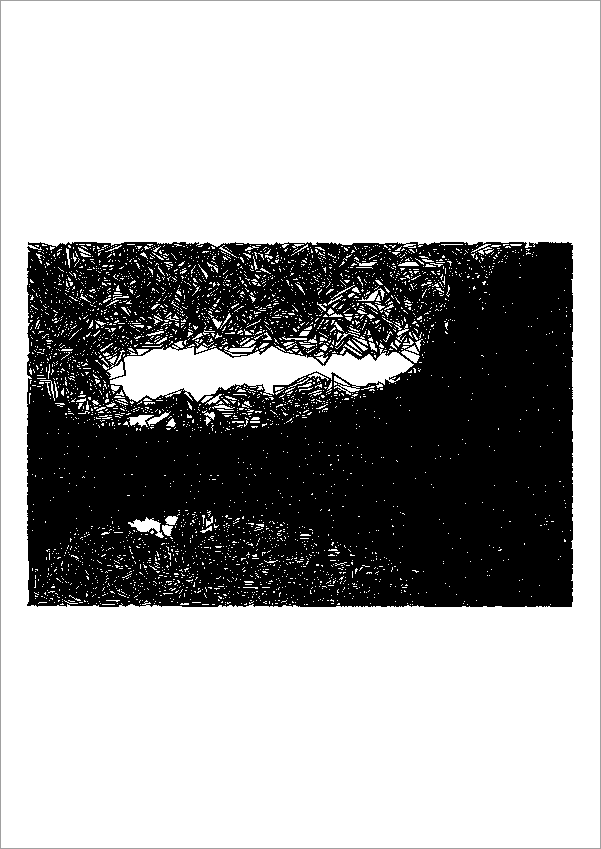
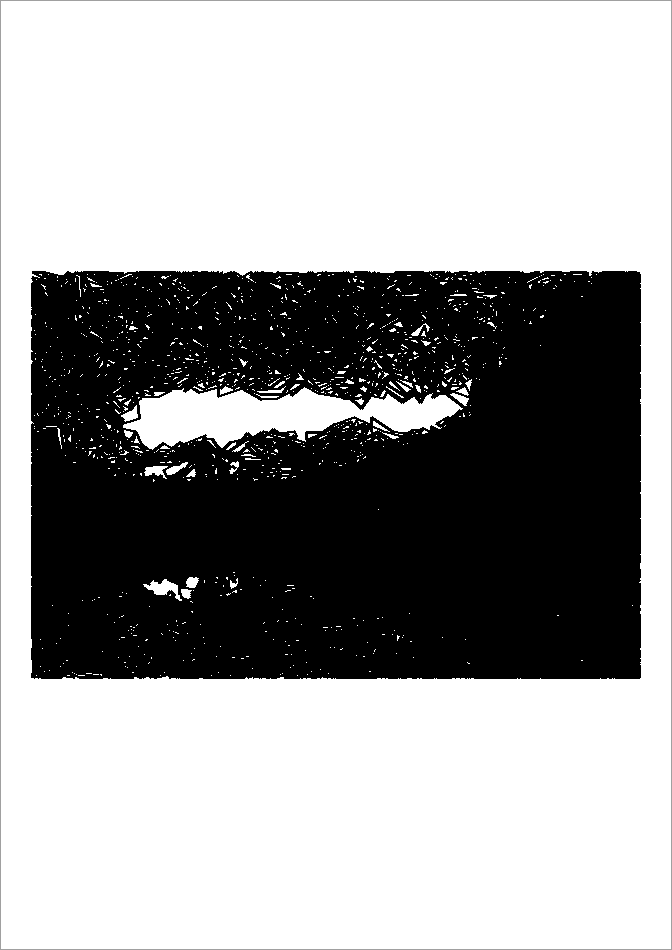
fixup! docs(readme): add reproducible Examples gallery (LUC-88)

diff --git a/README.md b/README.md
@@ -385,11 +385,13 @@ rebuilt with [`examples/gallery/generate.sh`](examples/gallery/generate.sh).
 Each algorithm row reads **original → simulated SVG plot → simulated G-code**:
 the plot is `penpath preview` of the SVG and the G-code view is `penpath preview`
 of the output of `penpath gcode --profile generic`. The G-code preview draws a
-thin bed/page outline around the same ink. All examples use A4 paper, the
-default 0.3 mm black `fine` pen, `-s seed=42` and a smaller working resolution
-(`--max-resolution 800`) to keep the run short; previews are 601×849 px
-(`--dpi 2.86`) except the three pen-width plots, which use `--dpi 3.2` (672×950
-px) so the stroke widths stay distinguishable, all well under 200 KB. Run the
+thin bed/page outline around the same ink. All examples use A4 paper,
+`-s seed=42` and a smaller working resolution (`--max-resolution 800`) to keep
+the run short. The algorithm rows use the default 0.3 mm black `fine` pen; the
+pen-width, colour and palette examples change the pen deliberately. Previews
+are 601×849 px (`--dpi 2.86`) except the three pen-width plots and the bold
+G-code preview, which use `--dpi 3.2` (672×950 px) so the wider strokes stay
+distinguishable and the bold ink looks solid, all well under 200 KB. Run the
 script from a checkout with `penpath` on your PATH to regenerate the whole gallery.
 
 ### Worked Example: Photo → SVG → Preview
@@ -524,7 +526,7 @@ penpath preview build/gallery/pen_medium.svg -o docs/images/luc-88/pen_medium_pl
 penpath convert tests/fixtures/images/reference/photo.jpg -o build/gallery/pen_bold.svg --paper a4 --max-resolution 800 -s seed=42 -q --pen bold
 penpath preview build/gallery/pen_bold.svg -o docs/images/luc-88/pen_bold_plot.png --dpi 3.2
 penpath gcode build/gallery/pen_bold.svg --profile generic -o build/gallery/pen_bold.gcode
-penpath preview build/gallery/pen_bold.gcode -o docs/images/luc-88/pen_bold_gcode.png --dpi 2.86
+penpath preview build/gallery/pen_bold.gcode -o docs/images/luc-88/pen_bold_gcode.png --dpi 3.2
 ```
 
 A pen can also carry its own colour inline. Here the geometry is unchanged and
